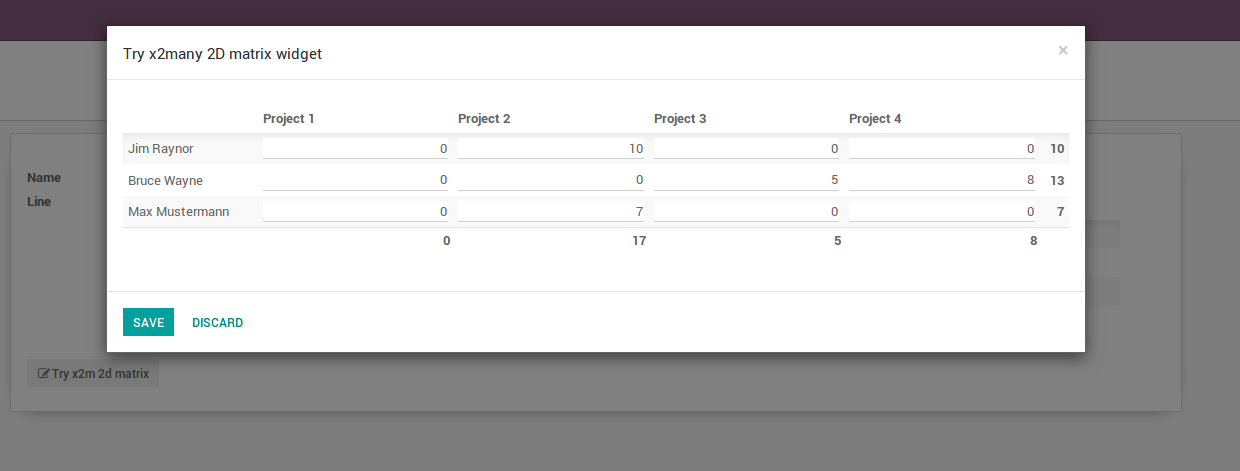
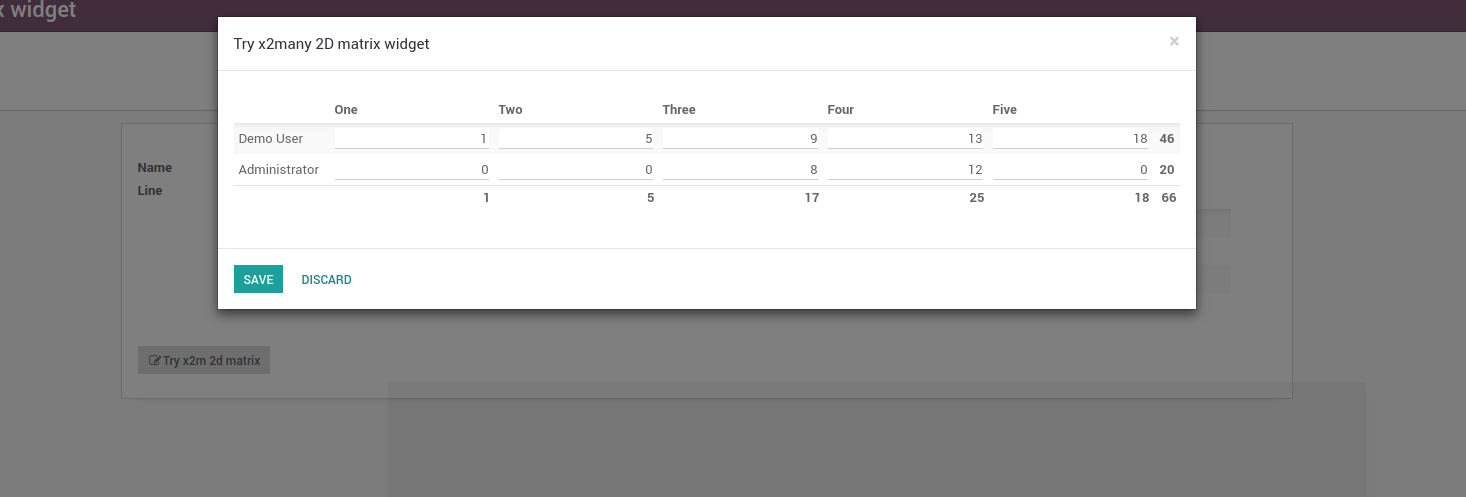
[IMP] web_widget_x2many_2d_matrix: Total of all rows (#1043)

diff --git a/web_widget_x2many_2d_matrix/static/src/js/2d_matrix_renderer.js b/web_widget_x2many_2d_matrix/static/src/js/2d_matrix_renderer.js
@@ -304,10 +304,30 @@ odoo.define('web_widget_x2many_2d_matrix.X2Many2dMatrixRenderer', function (requ
         _renderFooter: function () {
             var $cells = this._renderAggregateColCells();
             if ($cells) {
-                return $('<tfoot>').append(
-                    $('<tr>').append('<td/>').append($cells)
-                );
+                var $tr = $('<tr>').append('<td/>').append($cells);
+                var $total_cell = this._renderTotalCell();
+                if ($total_cell) {
+                    $tr.append($total_cell);
+                }
+                return $('<tfoot>').append($tr);
             }
+        },
+
+        /**
+         * Renders the total cell (of all rows / columns)
+         *
+         * @private
+         * @returns {jQueryElement} The td element with the total in it.
+         */
+        _renderTotalCell: function() {
+            if (!this.matrix_data.show_column_totals ||
+                !this.matrix_data.show_row_totals) {
+                return;
+            }
+
+            var $cell = $('<td>', {class: 'col-total text-right'});
+            this._apply_aggregate_value($cell, this.total);
+            return $cell;
         },
 
         /**
@@ -346,6 +366,12 @@ odoo.define('web_widget_x2many_2d_matrix.X2Many2dMatrixRenderer', function (requ
             if (!~['integer', 'float', 'monetary'].indexOf(type)) {
                 return;
             }
+            this.total = {
+                fname: fname,
+                ftype: type,
+                help: _t('Sum Total'),
+                value: 0,
+            };
             _.each(this.columns, function (column, index) {
                 column.aggregate = {
                     fname: fname,
@@ -361,6 +387,7 @@ odoo.define('web_widget_x2many_2d_matrix.X2Many2dMatrixRenderer', function (requ
                         // Nothing to do
                     }
                 });
+                this.total.value += column.aggregate.value;
             }.bind(this));
         },
 

diff --git a/web_widget_x2many_2d_matrix/__manifest__.py b/web_widget_x2many_2d_matrix/__manifest__.py
@@ -4,7 +4,7 @@
 # License AGPL-3.0 or later (http://www.gnu.org/licenses/agpl).
 {
     "name": "2D matrix for x2many fields",
-    "version": "11.0.1.0.2",
+    "version": "11.0.1.1.0",
     "author": "Therp BV, "
               "Tecnativa, "
               "Camptocamp, "

diff --git a/web_widget_x2many_2d_matrix/README.rst b/web_widget_x2many_2d_matrix/README.rst
@@ -168,6 +168,7 @@ Contributors
 * Simone Orsi <simone.orsi@camptocamp.com>
 * Timon Tschanz <timon.tschanz@camptocamp.com>
 * Jairo Llopis <jairo.llopis@tecnativa.com>
+* Dennis Sluijk <d.sluijk@onestein.nl>
 
 Maintainer
 ----------
